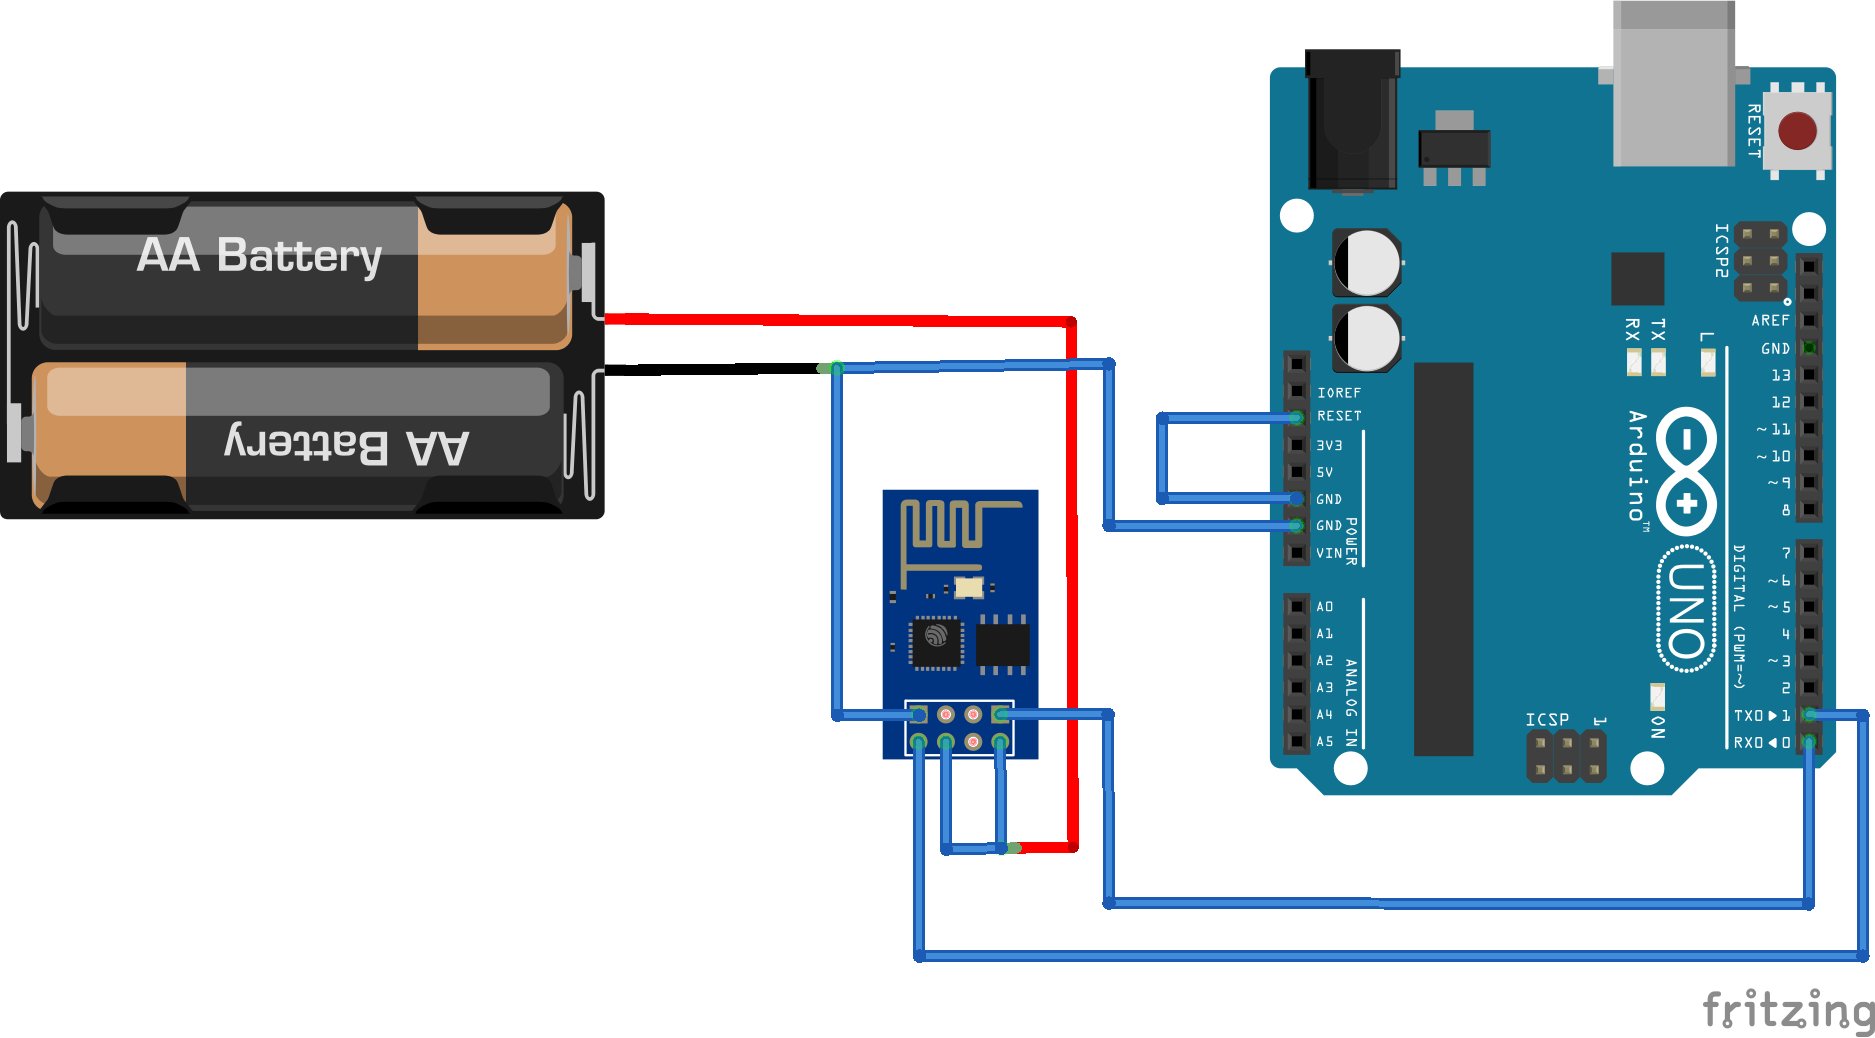
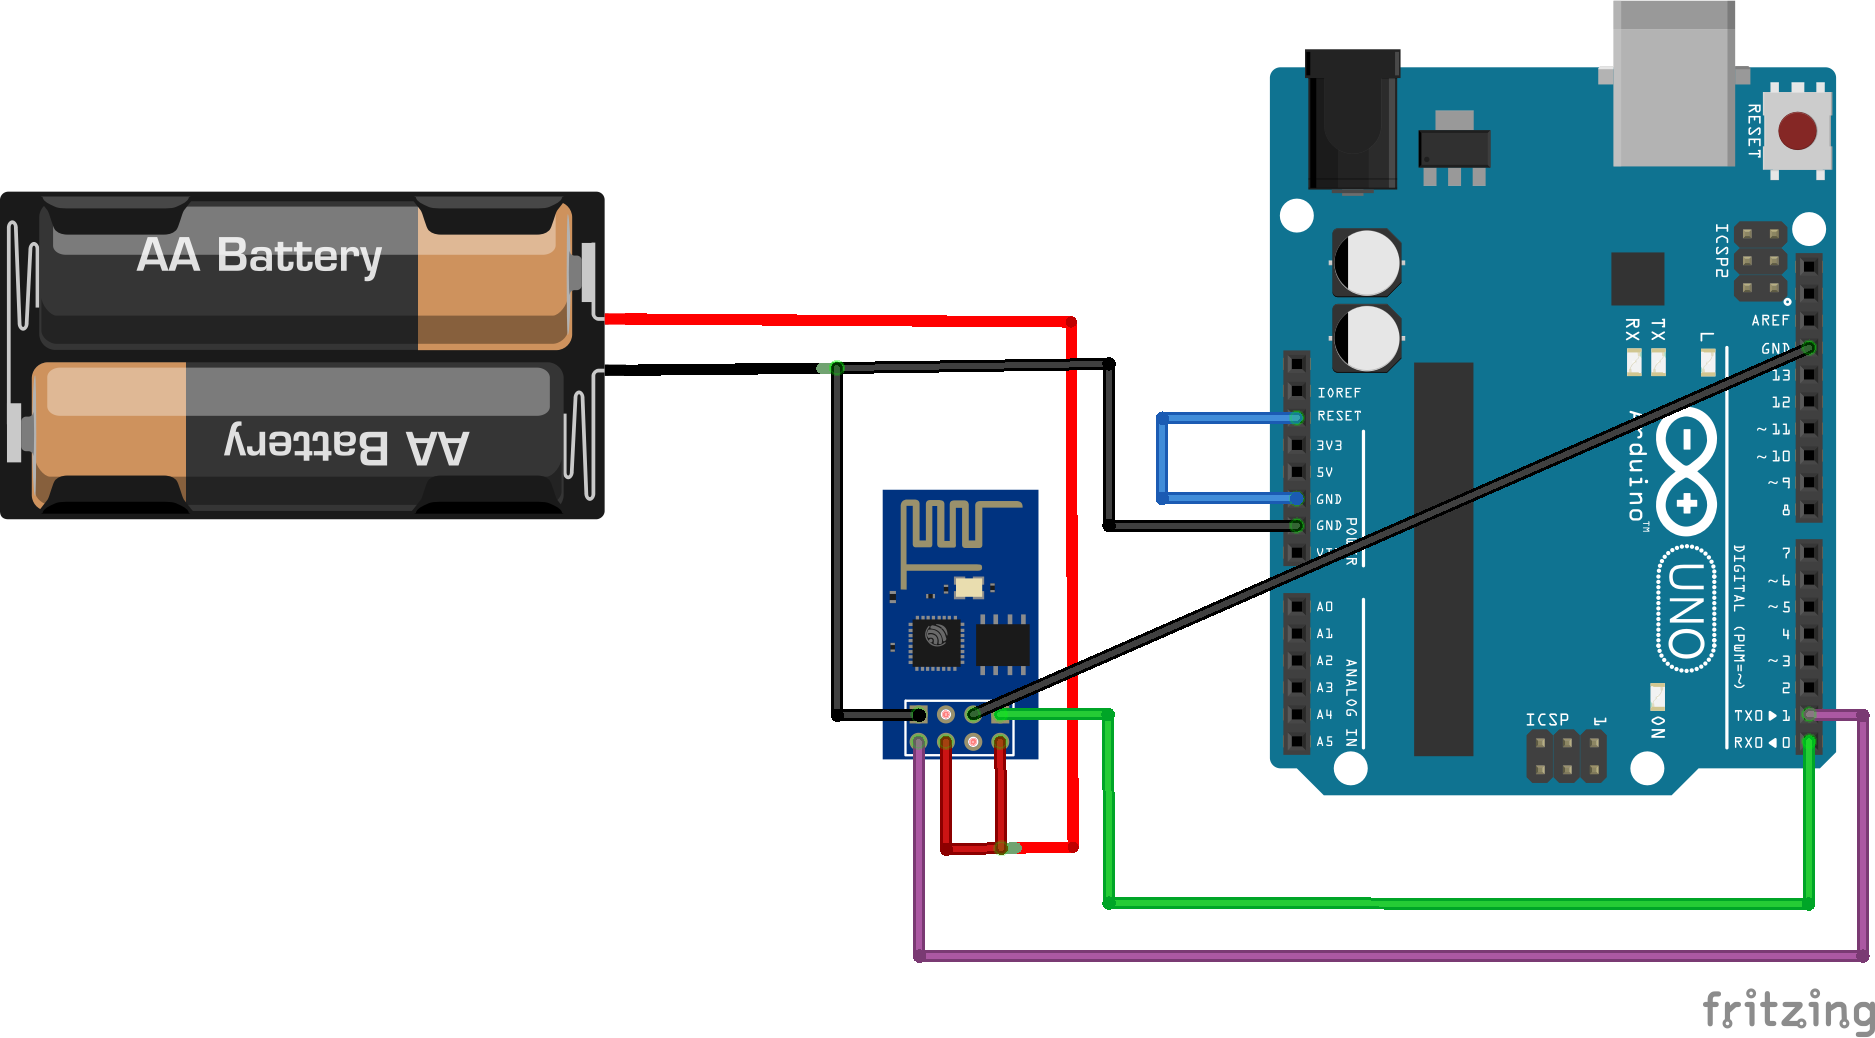
Updated - fixed missing GPIO connection

diff --git a/esp8266/README.md b/esp8266/README.md
@@ -10,10 +10,16 @@ Connections:
 * ESP RX to Arduino RX
 * ESP CH_PD to battery 3.3V
 
+Arduino IDE setup:
+* Select Tools > Board > Generic ESP8266 board
+* Select Tools > Port > (your arduino USB port)
+* Select Tools > Programmer > esptool
 
-To put the ESP8266 into programming mode:
 
-* Connect ESP GPIO0 to GND and then reboot (remove ESP8266 ground and plug it back in)
+Every time you want to upload new code, do this:
+
+* Connect ESP GPIO0 to GND and then reboot (remove a battery and plug it back in)
+* Upload the code in processing
 * When programming finishes, unplug this connection (ESP GPIO0) and reboot again.
 
 ![Schematic](esp8266_schem.png)
